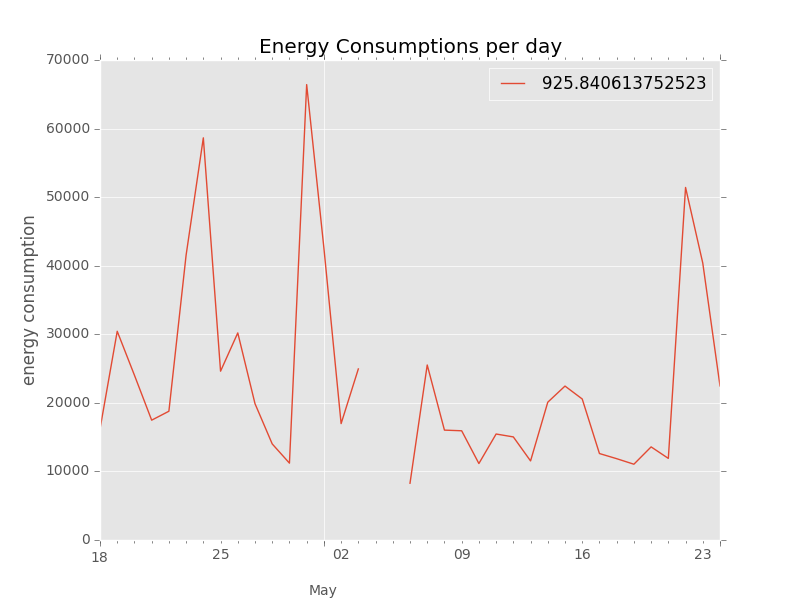
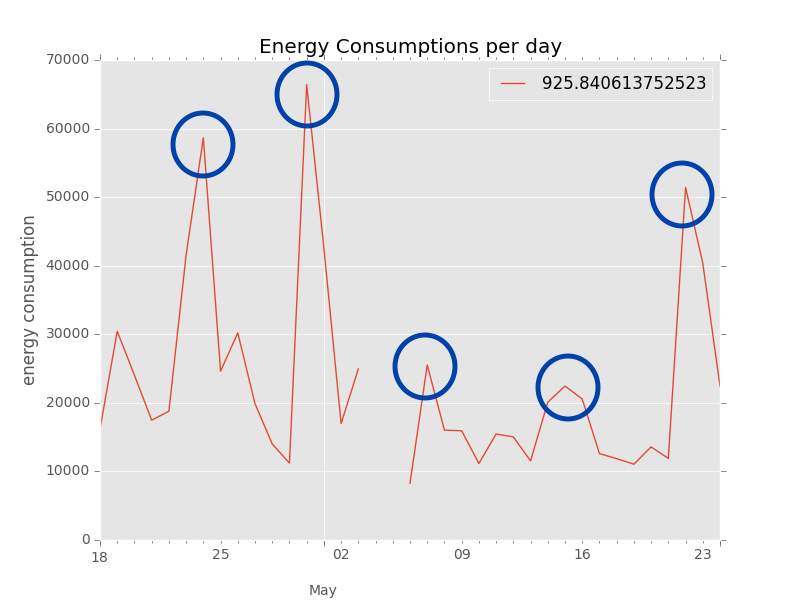
I fixed 3.clusters.py and added README.md

diff --git a/challenge2/analysis/Soma/3.clusters.py b/challenge2/analysis/Soma/3.clusters.py
@@ -1,47 +1,58 @@
-
-import pandas as pd
 import numpy as np
 import matplotlib.pyplot as plt
-from mpl_toolkits.mplot3d import axes3d
+import pandas as pd
+from sklearn.mixture import GMM
+from sklearn.preprocessing import LabelEncoder
+import matplotlib as mpl
+from matplotlib import style
+style.use('ggplot')
+
+MY_FILE= 'total_watt.csv'
+
+#read MY_FILE---------------------------------------------------------------------------------------------
+
+df = pd.read_csv(MY_FILE, parse_dates=[0], index_col=[0])   #parse_dates decides which column to read in datetime and index_col---decide index column.
+df = df.resample('1D', how='sum')
+df = df.dropna()                                            #sklearn is not NaN tolerant.
+
+#set date and consumption---------------------------------------------------------------------------------
+
+date = df.index.tolist()                                    #tolist returns the array as a list
+date = [x.strftime('%m-%d') for x in date]
+le = LabelEncoder()                                         #LabelEncoder converts text data into numeric form.
+date = le.fit_transform(date)
+consumption = df[df.columns[0]].values
+
+#ser X, fig and ax-----------------------------------------------------------------------------------------
+
+X = np.array([date, consumption]).T                         #.T accesses the attribute T of the object.
+fig, ax = plt.subplots(figsize=(12,8))
+
+#to add spheres surrounding my plots-----------------------------------------------------------------------
+
+gmm = GMM(n_components=3)
+gmm.fit(X)                                                  #call 'fit'
+y_pred = gmm.predict(X)
+for i, color in enumerate('grb'):
+    width, height = 2 * 1.96 * np.sqrt(np.diagonal(gmm._get_covars()[i]))
+    ell = mpl.patches.Ellipse(gmm.means_[i], width, height, color=color)
+    ell.set_alpha(0.3)
+    ax.add_artist(ell)
+    Xdata = X[y_pred == i]
+    ax.scatter(Xdata[:,0], Xdata[:,1], color=color)
+    ax.scatter(gmm.means_[i][0], gmm.means_[i][1], marker='x', s=300, c=color)
 
 
+#setting title, x/y label and ticks. ----------------------------------------------------------------------------------
 
-MY_FILE = 'total_watt.csv'
+a = np.arange(0, len(X), 3)
+ax.set_xticks(a)
+ax.set_xticklabels(le.inverse_transform(a.astype(int)))     #to set the x-ticks as dates
+ax.set_title('Energy consumptions Clusters (high/medium/low)')
+ax.set_xlabel('date (year 2011)')
+ax.set_ylabel('energy consumption')
+ax.tick_params(axis='x', colors='midnightblue')
+ax.tick_params(axis='y', colors='midnightblue')
 
-df = pd.read_csv(MY_FILE, parse_dates=[0], header=None, names=['datetime', 'consumption'])
-
-df['date'] = [x.date() for x in df['datetime']]
-df['time'] = [x.time() for x in df['datetime']]
-
-pv = df.pivot(index='time', columns='date', values='consumption')
-
-# to avoid holes in the surface
-pv = pv.fillna(0.0)
-
-xx, yy = np.mgrid[0:len(pv),0:len(pv.columns)]
-
-fig = plt.figure()
-ax = fig.add_subplot(111, projection='3d')
-
-surf=ax.plot_surface(xx, yy, pv.values, cmap='jet', cstride=1, rstride=1)
-
-fig.colorbar(surf, shrink=0.5, aspect=10)
-
-dates = [x.strftime('%m-%d') for x in pv.columns]
-times = [x.strftime('%H:%M') for x in pv.index]
-
-ax.set_title('Energy consumptions Clusters', color='lightseagreen')
-ax.set_xlabel('time', color='darkturquoise')
-ax.set_ylabel('date(year 2011)', color='darkturquoise')
-ax.set_zlabel('energy consumption', color='darkturquoise')
-ax.set_xticks(xx[::10,0])
-ax.set_xticklabels(times[::10], color='lightseagreen')
-ax.set_yticks(yy[0,::10])
-ax.set_yticklabels(dates[::10], color='lightseagreen')
-
-ax.set_axis_bgcolor('black')
-
+#finally!
 plt.show()
-
-
-#Thanks for reading! Looking forward to the Skype Interview.

diff --git a/challenge2/analysis/Soma/extra3D.py b/challenge2/analysis/Soma/extra3D.py
@@ -1,0 +1,45 @@
+import pandas as pd
+import numpy as np
+import matplotlib.pyplot as plt
+from mpl_toolkits.mplot3d import axes3d
+
+
+
+MY_FILE = 'total_watt.csv'
+
+df = pd.read_csv(MY_FILE, parse_dates=[0], header=None, names=['datetime', 'consumption'])
+
+df['date'] = [x.date() for x in df['datetime']]
+df['time'] = [x.time() for x in df['datetime']]
+
+pv = df.pivot(index='time', columns='date', values='consumption')
+
+# to avoid holes in the surface
+pv = pv.fillna(0.0)
+
+xx, yy = np.mgrid[0:len(pv),0:len(pv.columns)]
+
+fig = plt.figure()
+ax = fig.add_subplot(111, projection='3d')
+
+surf=ax.plot_surface(xx, yy, pv.values, cmap='jet', cstride=1, rstride=1)
+
+fig.colorbar(surf, shrink=0.5, aspect=10)
+
+dates = [x.strftime('%m-%d') for x in pv.columns]
+times = [x.strftime('%H:%M') for x in pv.index]
+
+ax.set_title('Energy consumptions Clusters', color='lightseagreen')
+ax.set_xlabel('time', color='darkturquoise')
+ax.set_ylabel('date(year 2011)', color='darkturquoise')
+ax.set_zlabel('energy consumption', color='darkturquoise')
+ax.set_xticks(xx[::10,0])
+ax.set_xticklabels(times[::10], color='lightseagreen')
+ax.set_yticks(yy[0,::10])
+ax.set_yticklabels(dates[::10], color='lightseagreen')
+
+ax.set_axis_bgcolor('black')
+
+plt.show()
+
+

diff --git a/challenge2/analysis/Soma/README.md b/challenge2/analysis/Soma/README.md
@@ -1,0 +1,26 @@
+
+
+Considering that Enechange is a service which offers an electricity plan to each household, I assume that the total_watt.csv data is about electricity consumption in Japanese households and proceed to a discussion.
+
+The total_watt.csv leaves out energy consumption data between 5/3 21:52 - 5/6 13:52. This is because this period includes holidays in Japan. By excluding the data in this period, we can also exclude unexpected outliers.
+
+・from 1.30mins.jpg--------------------------------------------------------
+
+There are some particular points where electricity consumption is extremely high which may indicate the time when many people use electrical devices in their house, such as air-conditioner, lights and the TV (these three electric devices occupy 60% of electric energy consumption in Japan.). You can also check this from extra3D.jpg
+
+・from 2.day.jpg--------------------------------------------------------
+
+The indicated points on the graph are the weekends. As you can see from the graph, electricity consumption is high around weekends, which also suggests total_watt.csv treats energy consumption in households, not in companies as corporation offices are usually closed on weekends.  You can also find a less varied jagged pattern in the graph, which shows normal workdays of the week, although I cannot find particular pattern for each day of the week. You can also check this from extra3D.jpg
+
+・from 3.clusters.jpg--------------------------------------------------------
+
+From this graph, you can find that, comparing to April, energy consumption is relatively low in May. This is because there is the special holiday at the beginning of May as I mentioned before. In this period, many households go out and do not consume much electricic energy in their house. Ideally, every households can take a break within this special holiday period, but some head of households cannot get a vacation in within this period and they take a vacation after special vacation period. This may explain why, following the special vacation period, energy consumption is still low. In addition, compared to April, it is much warmer in May. As a consequence, many households stop using air-conditioner in May, although it can become too hot at the end of May and some households start to use air-conditioner again.
+
+・from extra3D.jpg--------------------------------------------------------
+
+This is just a extra for this assignment.
+As you can see rom this graph, people don’t consume much energy from 04:22 to 10:22, which also suggests total_watt.csv treats energy consumption in households, not in company.
+
+
+
+Thanks for reading! Looking forward to the Skype Interview.
